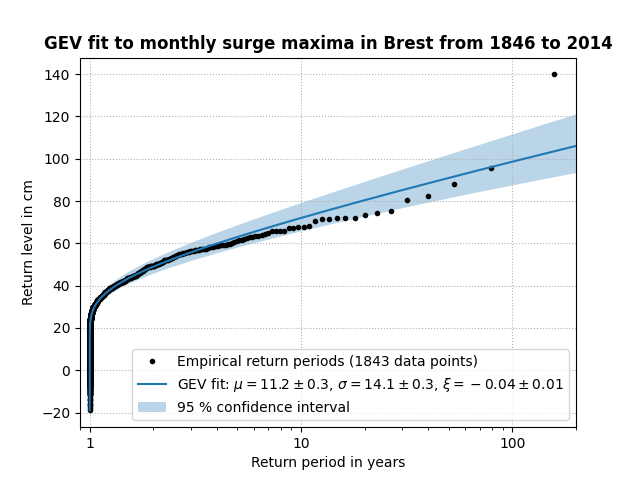
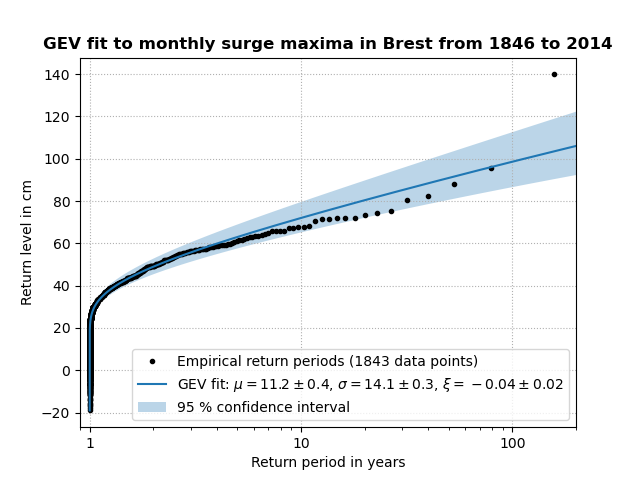
Update README and figure of sample result

diff --git a/README.md b/README.md
@@ -2,24 +2,34 @@
 Statistical extreme value analysis of storm surge levels with Python.
 
 This repository contains the code belonging to an unpublished manuscript
-by Markus Reinert *et al.* (2021).  Not all the code has been uploaded
-so far, but will be before the manuscript is submitted.  The reference
-to the paper will be added here as soon as it is published.
+by Markus Reinert *et al.* (2021).  The reference to the paper will be
+added here as soon as it is published.
 
-Example usage is shown in the files `Time-independent_GEV_fit.py` and
+Note that the data used in the manuscript cannot be published here for
+copyright reasons and needs to be obtained separately.  The surge
+dataset of the authors can be obtained from the corresponding author
+upon request.  The GESLA-2 surge dataset can be obtained from the
+website https://gesla.org/, as explained in <tools_GESLA.py>.  The NAO
+index data can be obtained from
+https://psl.noaa.gov/gcos_wgsp/Timeseries/, as explained in
+[tools_climate.py].
+
+Given the datasets, the main results of the manuscript can be reproduced
+with the scripts (Method_1_sliding_window_analysis.py) and
+`Method_2_monthly_analysis.py`.  The analysis presented in the
+Discussion can be reproduced with
+`Outlook_winter_shift_in_other_stations.py`.  The parameter estimates of
+the full time-dependent GEV model can be calculated with
+`Time-dependent_GEV_fit_with_NAO.py`.
+
+The functions and methods in this repository may also be used with other
+datasets, for related analyses, or in similar studies.  In particular,
+the script `advanced_GEV_analysis.py` may be useful, which implements
+methods described in the book “An Introduction to Statistical Modeling
+of Extreme Values” by Stuart Coles (2001).  Example usage of this
+library is shown in the files `Time-independent_GEV_fit.py` and
 `Time-dependent_GEV_fit.py`.  With the surge levels for Brest from the
-GESLA-2 dataset (Woodworth et al., 2017), which need to be downloaded
-separately from the website https://gesla.org/, the script
+GESLA-2 dataset (Woodworth et al., 2017), the script
 `Time-independent_GEV_fit.py` produces the following result:
 
 ![Figure of a time-independent GEV fit to extreme surge levels in Brest](results/GEV_fit_Brest.png)
-
-Please read the header of the file `tools_GESLA.py` for more details on
-how to obtain the GESLA-2 surge dataset.
-
-The time-dependent GEV model can also depend on the value of a climate
-index like NAO (North Atlantic Oscillation).  This is shown in the file
-`Time-dependent_GEV_fit_with_NAO.py`, which extends the example
-`Time-dependent_GEV_fit.py`.  It requires that climate index data has
-been downloaded from https://psl.noaa.gov/gcos_wgsp/Timeseries/, see
-`tools_climate.py` for more information.
